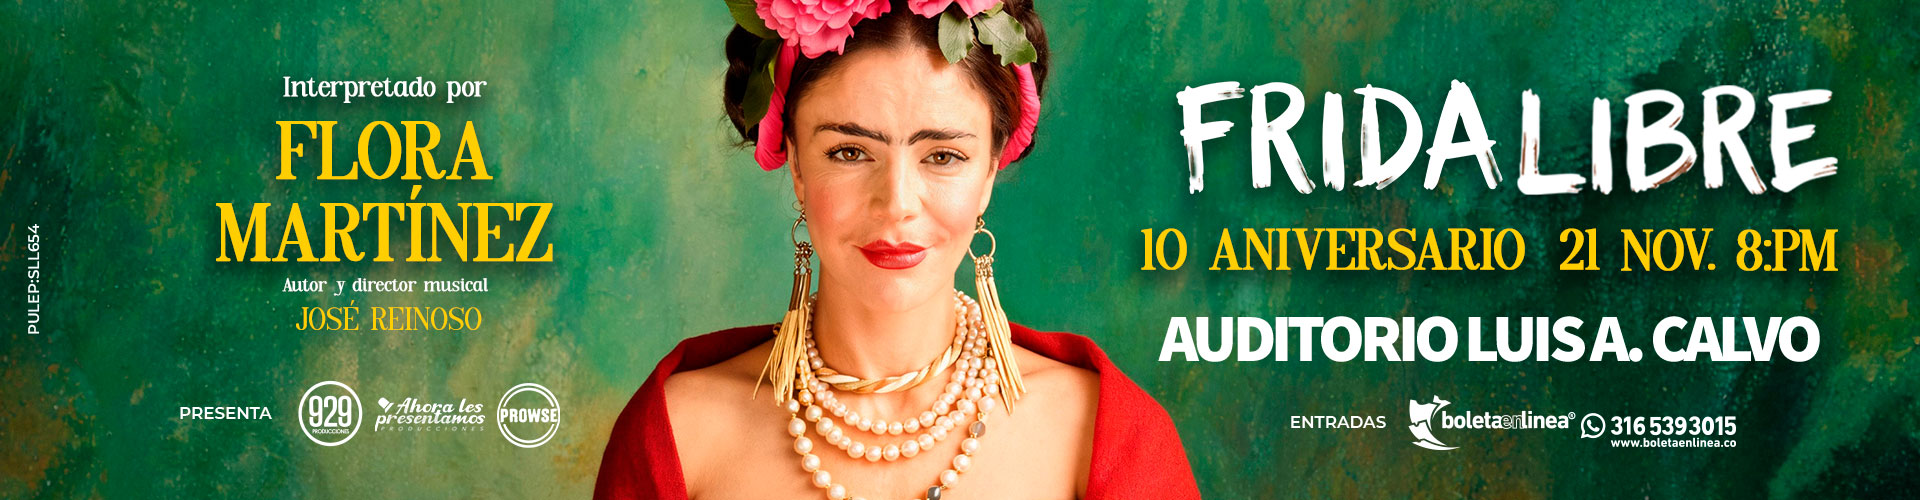
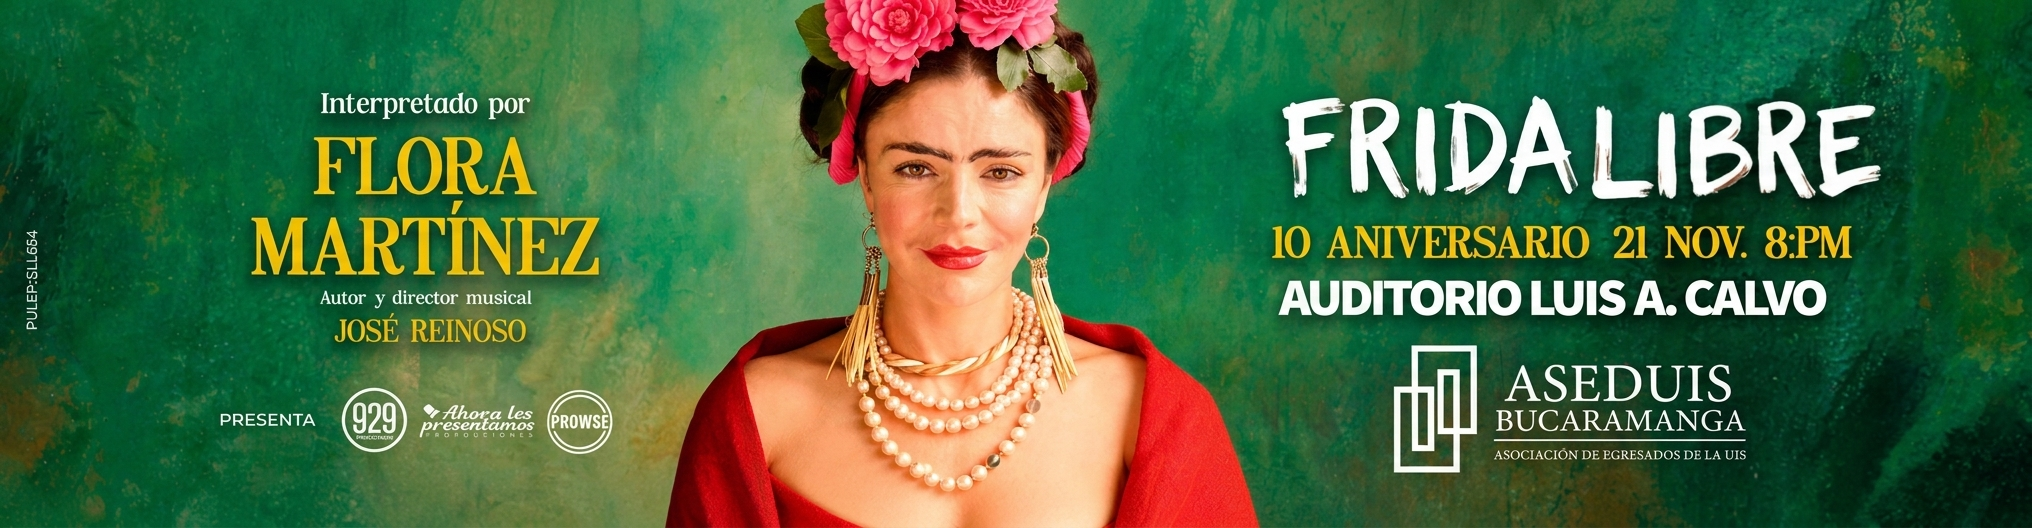
Eventos v.1.1.3

diff --git a/app/eventos/[slug]/page.js b/app/eventos/[slug]/page.js
@@ -1,7 +1,7 @@
 'use client'
 import { useState } from 'react'
 import { useParams } from 'next/navigation'
-import { getEvento, formatoCOP } from '@/lib/eventos'
+import { getEvento } from '@/lib/eventos'
 
 export default function EventoPage() {
   const { slug } = useParams()
@@ -46,36 +46,32 @@ export default function EventoPage() {
     : ''
 
   const styles = {
-  page: { minHeight: '100vh', background: '#f4f4f5', display: 'flex', alignItems: 'flex-start', justifyContent: 'center', padding: '52px 20px 64px', fontFamily: '"Geist", "Inter", -apple-system, BlinkMacSystemFont, "Segoe UI", sans-serif' },
-  wrapper: { width: '100%', maxWidth: 560 },
-  brand: { textAlign: 'center', marginBottom: 28 },
-  eventTitle: { fontSize: 22, fontWeight: 700, color: '#09090b', letterSpacing: '-0.02em', margin: '0 0 4px' },
-  eventSub: { fontSize: 14, color: '#be1522', fontWeight: 600, margin: '0 0 10px' },
-  eventMeta: { fontSize: 13, color: '#71717a', margin: '2px 0' },
-  card: { background: '#ffffff', border: '1px solid #e4e4e7', borderRadius: 14, padding: '22px 22px 20px', marginBottom: 10 },
-  fieldLabel: { display: 'block', fontSize: 11, fontWeight: 600, color: '#52525b', letterSpacing: '0.07em', textTransform: 'uppercase', marginBottom: 8 },
-  form: { display: 'flex', flexDirection: 'column', gap: 10 },
-  input: { width: '100%', padding: '11px 14px', fontSize: 15, fontFamily: '"Geist Mono", monospace', letterSpacing: '0.04em', border: '1px solid #d4d4d8', borderRadius: 9, boxSizing: 'border-box', outline: 'none', color: '#09090b', background: '#fafafa' },
-  button: { width: '100%', padding: '11px', fontSize: 14, fontWeight: 500, background: '#be1522', color: '#fff', border: '1px solid transparent', borderRadius: 9, cursor: 'pointer' },
-  resultCard: (ok) => ({ background: ok ? '#f0fdf4' : '#fffaf0', border: `1px solid ${ok ? '#bbf7d0' : '#fed7aa'}`, borderRadius: 16, padding: '24px 22px', marginBottom: 10, boxShadow: '0 1px 3px rgba(0,0,0,0.04)' }),
-  statusHeader: { display: 'flex', alignItems: 'flex-start', gap: 10, marginBottom: 10 },
-  statusIcon: (ok) => ({ width: 30, height: 30, borderRadius: '50%', flexShrink: 0, background: ok ? '#dcfce7' : '#fed7aa', display: 'flex', alignItems: 'center', justifyContent: 'center', marginTop: 2 }),
-  statusTitle: (ok) => ({ fontSize: 16, fontWeight: 700, color: ok ? '#166534' : '#9a3412', margin: '4px 0 0' }),
-  statusSub: { fontSize: 13.5, color: '#52525b', lineHeight: 1.55, margin: '0 0 20px' },
-  priceRow: { display: 'flex', justifyContent: 'space-between', alignItems: 'center', padding: '9px 0', borderBottom: '1px dashed #d1fae5' },
-  priceName: { fontSize: 13, color: '#166534', fontWeight: 600 },
-  priceOld: { fontSize: 12, color: '#a1a1aa', textDecoration: 'line-through', marginRight: 8 },
-  priceNew: { fontSize: 15, color: '#166534', fontWeight: 700 },
-  couponBox: { marginTop: 14, padding: '10px 14px', background: '#dcfce7', border: '1px dashed #86efac', borderRadius: 9, textAlign: 'center' },
-  couponLabel: { fontSize: 10, color: '#166534', textTransform: 'uppercase', letterSpacing: '0.06em', margin: '0 0 2px' },
-  couponCode: { fontSize: 17, fontWeight: 700, color: '#166534', fontFamily: '"Geist Mono", monospace', letterSpacing: '0.05em' },
-  ctaButton: { display: 'flex', alignItems: 'center', justifyContent: 'center', gap: 8, width: '100%', padding: '13px', fontSize: 14, fontWeight: 600, background: '#be1522', color: '#fff', borderRadius: 10, textDecoration: 'none', boxSizing: 'border-box', marginTop: 16, boxShadow: '0 1px 2px rgba(0,0,0,0.08)' },
-  ctaButtonOutline: { display: 'flex', alignItems: 'center', justifyContent: 'center', gap: 8, width: '100%', padding: '13px', fontSize: 14, fontWeight: 600, background: '#ffffff', color: '#be1522', borderRadius: 10, textDecoration: 'none', boxSizing: 'border-box', border: '1.5px solid #be1522', marginTop: 10 },
-  whatsappButton: { display: 'flex', alignItems: 'center', justifyContent: 'center', gap: 8, width: '100%', padding: '13px', fontSize: 14, fontWeight: 600, background: '#25D366', color: '#fff', borderRadius: 10, textDecoration: 'none', boxSizing: 'border-box', boxShadow: '0 1px 2px rgba(0,0,0,0.08)' },
-  eventImageWrap: { width: '100%', aspectRatio: '1920 / 500', overflow: 'hidden', borderRadius: 14, marginBottom: 18 },
-  eventImage: { width: '100%', height: '100%', objectFit: 'cover', objectPosition: 'center 40%', display: 'block' },
-  tituloDescuentoBadge: { display: 'inline-block', fontSize: 12, fontWeight: 700, color: '#166534', background: '#dcfce7', border: '1px solid #86efac', padding: '6px 14px', borderRadius: 20, textTransform: 'uppercase', letterSpacing: '0.05em', margin: '4px 0 14px',},
-}
+    page: { minHeight: '100vh', background: '#f4f4f5', display: 'flex', alignItems: 'flex-start', justifyContent: 'center', padding: '52px 20px 64px', fontFamily: '"Geist", "Inter", -apple-system, BlinkMacSystemFont, "Segoe UI", sans-serif' },
+    wrapper: { width: '100%', maxWidth: 560 },
+    brand: { textAlign: 'center', marginBottom: 28 },
+    eventTitle: { fontSize: 22, fontWeight: 700, color: '#09090b', letterSpacing: '-0.02em', margin: '0 0 4px' },
+    eventSub: { fontSize: 14, color: '#be1522', fontWeight: 600, margin: '0 0 10px' },
+    eventMeta: { fontSize: 13, color: '#71717a', margin: '2px 0' },
+    card: { background: '#ffffff', border: '1px solid #e4e4e7', borderRadius: 14, padding: '22px 22px 20px', marginBottom: 10 },
+    fieldLabel: { display: 'block', fontSize: 11, fontWeight: 600, color: '#52525b', letterSpacing: '0.07em', textTransform: 'uppercase', marginBottom: 8 },
+    form: { display: 'flex', flexDirection: 'column', gap: 10 },
+    input: { width: '100%', padding: '11px 14px', fontSize: 15, fontFamily: '"Geist Mono", monospace', letterSpacing: '0.04em', border: '1px solid #d4d4d8', borderRadius: 9, boxSizing: 'border-box', outline: 'none', color: '#09090b', background: '#fafafa' },
+    button: { width: '100%', padding: '11px', fontSize: 14, fontWeight: 500, background: '#be1522', color: '#fff', border: '1px solid transparent', borderRadius: 9, cursor: 'pointer' },
+    resultCard: (ok) => ({ background: ok ? '#f0fdf4' : '#fffaf0', border: `1px solid ${ok ? '#bbf7d0' : '#fed7aa'}`, borderRadius: 16, padding: '24px 22px', marginBottom: 10, boxShadow: '0 1px 3px rgba(0,0,0,0.04)' }),
+    statusHeader: { display: 'flex', alignItems: 'flex-start', gap: 10, marginBottom: 10 },
+    statusIcon: (ok) => ({ width: 30, height: 30, borderRadius: '50%', flexShrink: 0, background: ok ? '#dcfce7' : '#fed7aa', display: 'flex', alignItems: 'center', justifyContent: 'center', marginTop: 2 }),
+    statusTitle: (ok) => ({ fontSize: 16, fontWeight: 700, color: ok ? '#166534' : '#9a3412', margin: '4px 0 0' }),
+    statusSub: { fontSize: 13.5, color: '#52525b', lineHeight: 1.55, margin: '0 0 20px' },
+    couponBox: { marginTop: 4, padding: '14px', background: '#dcfce7', border: '1px dashed #86efac', borderRadius: 9, textAlign: 'center' },
+    couponLabel: { fontSize: 11, color: '#166534', fontWeight: 600, margin: '0 0 4px' },
+    couponCode: { fontSize: 19, fontWeight: 700, color: '#166534', fontFamily: '"Geist Mono", monospace', letterSpacing: '0.05em' },
+    ctaButton: { display: 'flex', alignItems: 'center', justifyContent: 'center', gap: 8, width: '100%', padding: '13px', fontSize: 14, fontWeight: 600, background: '#be1522', color: '#fff', borderRadius: 10, textDecoration: 'none', boxSizing: 'border-box', marginTop: 16, boxShadow: '0 1px 2px rgba(0,0,0,0.08)' },
+    ctaButtonOutline: { display: 'flex', alignItems: 'center', justifyContent: 'center', gap: 8, width: '100%', padding: '13px', fontSize: 14, fontWeight: 600, background: '#ffffff', color: '#be1522', borderRadius: 10, textDecoration: 'none', boxSizing: 'border-box', border: '1.5px solid #be1522', marginTop: 10 },
+    whatsappButton: { display: 'flex', alignItems: 'center', justifyContent: 'center', gap: 8, width: '100%', padding: '13px', fontSize: 14, fontWeight: 600, background: '#25D366', color: '#fff', borderRadius: 10, textDecoration: 'none', boxSizing: 'border-box', boxShadow: '0 1px 2px rgba(0,0,0,0.08)' },
+    eventImageWrap: { width: '100%', aspectRatio: '1920 / 500', overflow: 'hidden', borderRadius: 14, marginBottom: 18 },
+    eventImage: { width: '100%', height: '100%', objectFit: 'cover', objectPosition: 'center 40%', display: 'block' },
+    tituloDescuentoBadge: { display: 'inline-block', fontSize: 12, fontWeight: 700, color: '#166534', background: '#dcfce7', border: '1px solid #86efac', padding: '6px 14px', borderRadius: 20, textTransform: 'uppercase', letterSpacing: '0.05em', margin: '4px 0 14px' },
+  }
 
   if (!evento) {
     return (
@@ -91,8 +87,14 @@ export default function EventoPage() {
     <main style={styles.page}>
       <div style={styles.wrapper}>
         <div style={styles.brand}>
-          {evento.imagen && (<div style={styles.eventImageWrap}> <img src={evento.imagen} alt={evento.nombre} style={styles.eventImage} /></div>)}
-          {evento.tituloDescuento && (<div style={styles.tituloDescuentoBadge}>{evento.tituloDescuento}</div>)}
+          {evento.imagen && (
+            <div style={styles.eventImageWrap}>
+              <img src={evento.imagen} alt={evento.nombre} style={styles.eventImage} />
+            </div>
+          )}
+          {evento.tituloDescuento && (
+            <div style={styles.tituloDescuentoBadge}>{evento.tituloDescuento}</div>
+          )}
           <h1 style={styles.eventTitle}>{evento.nombre}</h1>
           <p style={styles.eventSub}>{evento.subtitulo}</p>
           <p style={styles.eventMeta}>{evento.lugar}</p>
@@ -117,69 +119,56 @@ export default function EventoPage() {
         </div>
 
         {consultado && esAsociado && (
-            <div style={styles.resultCard(true)}>
-              <div style={styles.statusHeader}>
-                <div style={styles.statusIcon(true)}>
-                  <svg width="16" height="16" viewBox="0 0 24 24" fill="none" stroke="#166534" strokeWidth="2.5" strokeLinecap="round" strokeLinejoin="round">
-                    <path d="M20 6 9 17l-5-5"/>
-                  </svg>
-                </div>
-                <div>
-                  <p style={styles.statusTitle(true)}>Eres asociado ASEDUIS</p>
-                </div>
+          <div style={styles.resultCard(true)}>
+            <div style={styles.statusHeader}>
+              <div style={styles.statusIcon(true)}>
+                <svg width="16" height="16" viewBox="0 0 24 24" fill="none" stroke="#166534" strokeWidth="2.5" strokeLinecap="round" strokeLinejoin="round">
+                  <path d="M20 6 9 17l-5-5"/>
+                </svg>
               </div>
-              <p style={styles.statusSub}>
-                {resultado.nombre_completo} — tienes {evento.descuentoAsociado}% de descuento
-              </p>
-
-              {evento.localidades.map((loc, i) => {
-                const valorConDescuento = Math.round(loc.valor * (1 - evento.descuentoAsociado / 100))
-                return (
-                  <div key={i} style={styles.priceRow}>
-                    <span style={styles.priceName}>{loc.nombre}</span>
-                    <span>
-                      <span style={styles.priceOld}>{formatoCOP(loc.valor)}</span>
-                      <span style={styles.priceNew}>{formatoCOP(valorConDescuento)}</span>
-                    </span>
-                  </div>
-                )
-              })}
-
-              <div style={styles.couponBox}>
-                <p style={styles.couponLabel}>Código de cupón</p>
-                <p style={styles.couponCode}>{evento.cuponAsociado}</p>
+              <div>
+                <p style={styles.statusTitle(true)}>Eres asociado ASEDUIS</p>
               </div>
-
-              <a href={evento.ticketUrl} target="_blank" rel="noopener noreferrer" style={styles.ctaButton}>
-                Comprar boletas
-              </a>
             </div>
-          )}
+            <p style={styles.statusSub}>
+              {resultado.nombre_completo} — tienes {evento.descuentoAsociado}% de descuento
+            </p>
 
-          {consultado && !esAsociado && (
-            <div style={styles.resultCard(false)}>
-              <div style={styles.statusHeader}>
-                <div style={styles.statusIcon(false)}>
-                  <svg width="16" height="16" viewBox="0 0 24 24" fill="none" stroke="#9a3412" strokeWidth="2.5" strokeLinecap="round">
-                    <circle cx="12" cy="12" r="10"/><path d="M12 8v4M12 16h.01"/>
-                  </svg>
-                </div>
-                <div>
-                  <p style={styles.statusTitle(false)}>No eres asociado ASEDUIS</p>
-                </div>
-              </div>
-              <p style={styles.statusSub}>
-                Si eres egresado UIS puedes aplicar a un descuento del 10%. Cuéntanos tu nombre completo y tu vínculo con la UIS para verificarlo por WhatsApp.
-              </p>
-              <a href={`https://wa.me/${evento.whatsappNumero}?text=${mensajeWhatsapp}`} target="_blank" rel="noopener noreferrer" style={styles.whatsappButton}>
-                <svg width="16" height="16" viewBox="0 0 24 24" fill="currentColor"><path d="M12.04 2C6.58 2 2.13 6.45 2.13 11.91c0 1.75.46 3.45 1.32 4.95L2.05 22l5.25-1.38c1.45.79 3.08 1.21 4.74 1.21h.01c5.46 0 9.91-4.45 9.91-9.91 0-2.65-1.03-5.14-2.9-7.01A9.82 9.82 0 0012.04 2zm5.83 14.13c-.24.68-1.4 1.32-1.93 1.4-.5.08-1.13.11-1.82-.11-.42-.14-.96-.32-1.65-.62-2.9-1.25-4.79-4.17-4.94-4.36-.14-.19-1.18-1.57-1.18-3 0-1.43.75-2.13 1.02-2.42.27-.29.58-.36.78-.36.19 0 .39 0 .56.01.18.01.42-.07.65.5.24.58.81 2.01.88 2.15.07.15.12.32.02.51-.09.19-.14.31-.28.48-.14.17-.29.37-.42.5-.14.14-.28.29-.12.56.16.28.71 1.17 1.52 1.9 1.05.94 1.93 1.23 2.21 1.37.28.14.44.12.6-.07.17-.19.71-.83.9-1.11.19-.28.38-.24.63-.14.26.09 1.64.77 1.92.91.28.14.47.21.54.33.07.12.07.68-.17 1.36z"/></svg>
-                Escribir por WhatsApp
-              </a>
-              <a href={evento.ticketUrl} target="_blank" rel="noopener noreferrer" style={styles.ctaButtonOutline}>
-                Comprar boleta sin descuento
-              </a>
+            <div style={styles.couponBox}>
+              <p style={styles.couponLabel}>Aplica este código en la boletería</p>
+              <p style={styles.couponCode}>{evento.cuponAsociado}</p>
             </div>
-          )}
+
+            <a href={evento.ticketUrl} target="_blank" rel="noopener noreferrer" style={styles.ctaButton}>
+              Comprar boletas
+            </a>
+          </div>
+        )}
+
+        {consultado && !esAsociado && (
+          <div style={styles.resultCard(false)}>
+            <div style={styles.statusHeader}>
+              <div style={styles.statusIcon(false)}>
+                <svg width="16" height="16" viewBox="0 0 24 24" fill="none" stroke="#9a3412" strokeWidth="2.5" strokeLinecap="round">
+                  <circle cx="12" cy="12" r="10"/><path d="M12 8v4M12 16h.01"/>
+                </svg>
+              </div>
+              <div>
+                <p style={styles.statusTitle(false)}>No eres asociado ASEDUIS</p>
+              </div>
+            </div>
+            <p style={styles.statusSub}>
+              Si eres egresado UIS puedes aplicar a un descuento del 10%. Cuéntanos tu nombre completo y tu vínculo con la UIS para verificarlo por WhatsApp.
+            </p>
+            <a href={`https://wa.me/${evento.whatsappNumero}?text=${mensajeWhatsapp}`} target="_blank" rel="noopener noreferrer" style={styles.whatsappButton}>
+              <svg width="16" height="16" viewBox="0 0 24 24" fill="currentColor"><path d="M12.04 2C6.58 2 2.13 6.45 2.13 11.91c0 1.75.46 3.45 1.32 4.95L2.05 22l5.25-1.38c1.45.79 3.08 1.21 4.74 1.21h.01c5.46 0 9.91-4.45 9.91-9.91 0-2.65-1.03-5.14-2.9-7.01A9.82 9.82 0 0012.04 2zm5.83 14.13c-.24.68-1.4 1.32-1.93 1.4-.5.08-1.13.11-1.82-.11-.42-.14-.96-.32-1.65-.62-2.9-1.25-4.79-4.17-4.94-4.36-.14-.19-1.18-1.57-1.18-3 0-1.43.75-2.13 1.02-2.42.27-.29.58-.36.78-.36.19 0 .39 0 .56.01.18.01.42-.07.65.5.24.58.81 2.01.88 2.15.07.15.12.32.02.51-.09.19-.14.31-.28.48-.14.17-.29.37-.42.5-.14.14-.28.29-.12.56.16.28.71 1.17 1.52 1.9 1.05.94 1.93 1.23 2.21 1.37.28.14.44.12.6-.07.17-.19.71-.83.9-1.11.19-.28.38-.24.63-.14.26.09 1.64.77 1.92.91.28.14.47.21.54.33.07.12.07.68-.17 1.36z"/></svg>
+              Escribir por WhatsApp
+            </a>
+            <a href={evento.ticketUrl} target="_blank" rel="noopener noreferrer" style={styles.ctaButtonOutline}>
+              Comprar boleta sin descuento
+            </a>
+          </div>
+        )}
       </div>
     </main>
   )

diff --git a/lib/eventos.js b/lib/eventos.js
@@ -12,10 +12,6 @@ export const eventos = [
     tituloDescuento: 'Descuento especial ASEDUIS',
     descuentoAsociado: 15,
     cuponAsociado: 'FRIDA15',
-    localidades: [
-      { nombre: 'Platea', valor: 121000 },
-      { nombre: 'Balcón', valor: 110000 },
-    ],
   },
   // 👇 Ejemplo de cómo se vería el próximo evento
   // {
@@ -30,14 +26,9 @@ export const eventos = [
   //   tituloDescuento: 'Descuento especial ASEDUIS',
   //   descuentoAsociado: 15,
   //   cuponAsociado: 'CODIGO2025',
-  //   localidades: [{ nombre: 'General', valor: 100000 }],
   // },
 ]
 
 export function getEvento(slug) {
   return eventos.find(e => e.slug === slug) || null
-}
-
-export function formatoCOP(valor) {
-  return valor.toLocaleString('es-CO', { style: 'currency', currency: 'COP', maximumFractionDigits: 0 })
 }
